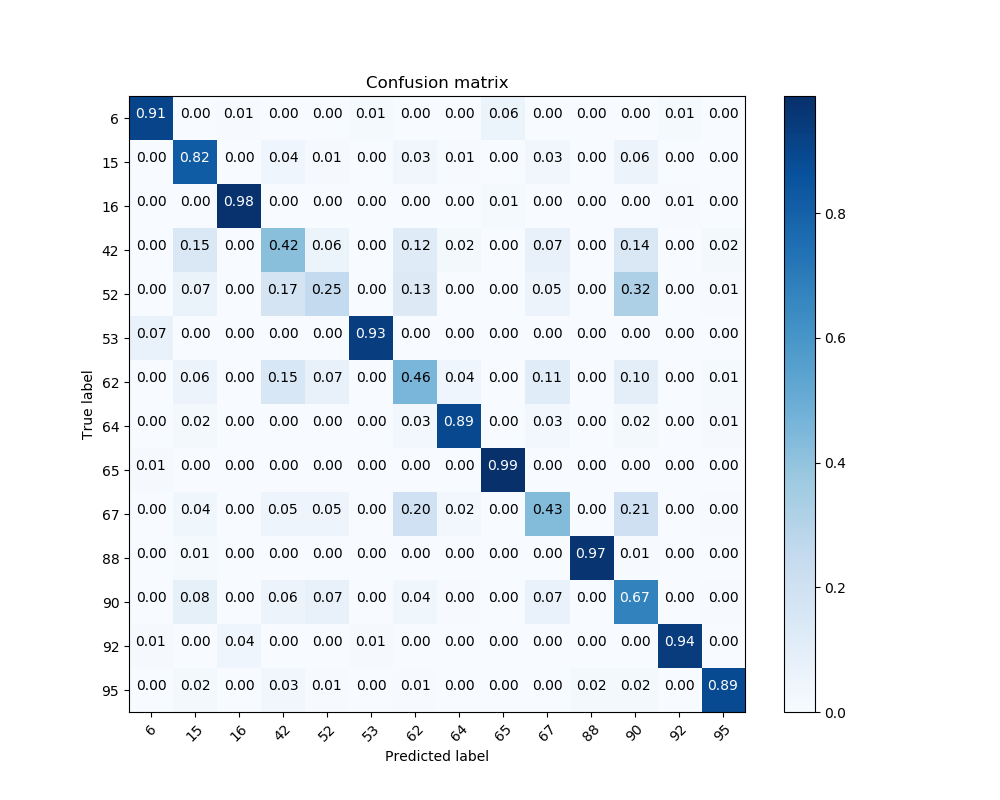
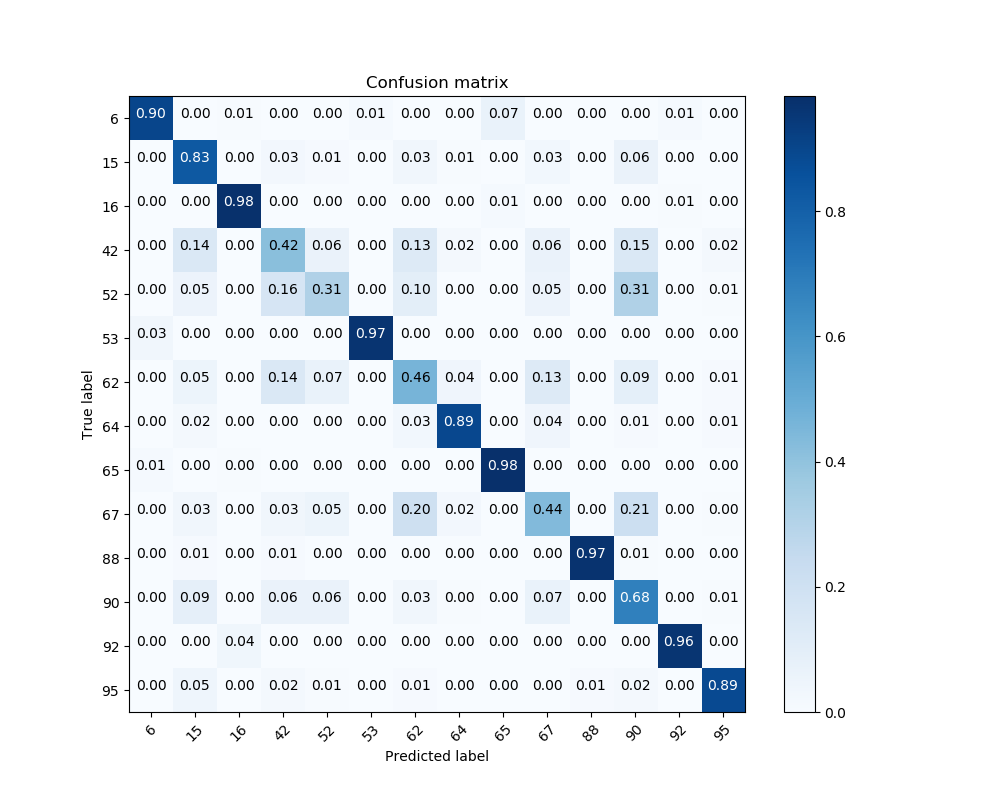
start monday

diff --git a/featgen_standard_v2.py b/featgen_standard_v2.py
@@ -26,11 +26,11 @@ def atomic_worker(args):
     feat_arrays = []
     compute_feats = {
         'm-feats'            : False,
-        'm-feats-filtered'   : True,
+        'm-feats-filtered'   : False,
         't-feats'            : False,
         'd-feats'            : False,
         'cesium-feats'       : False,
-        'slope-feats'        : False,
+        'slope-feats'        : True,
     }
 
 
@@ -68,26 +68,25 @@ def atomic_worker(args):
 
         def slope_feats(ts, ms, ds):
             '''
-            Custom compute of slope feats. Atm:
-            1) Max slope per band
+            Custom compute of slope feats
             '''
 
             if np.sum(ds) <= 1: # 0 or 1 detected points are insufficient for slope computation
-                return 0
+                return np.zeros(5)
 
             # Unused
             mask = (ds[1:] * ds[:-1]) # Mask to compute slope between detected pts only
 
             s = (ms[1:]-ms[:-1])/(ts[1:]-ts[:-1])
 
-            return np.max(s)
+            return np.array([np.max(s), np.median(s), np.mean(s), np.std(s), skew(s)])
 
 
         # Define feats to compute
         feats_to_compute = [slope_feats]
         num_bands = 6
         local_names = []
-        for fn in ['slope_max']:
+        for fn in ['slope_max', 'slope_median', 'slope_mean', 'slope_std', 'slope_skew']:
             local_names.extend([f'{fn}_{i:d}' for i in range(num_bands)])
 
         feat_names.extend(local_names)
@@ -99,9 +98,11 @@ def atomic_worker(args):
 
         # Compute slope feats
         for i, (t_curves, m_curves, d_curves) in enumerate(zip(lcs[0], lcs[1], lcs[3])):
-            for j, f in enumerate(feats_to_compute):
-                for k, (ts, ms, ds) in enumerate(zip(t_curves, m_curves, d_curves)):
-                    s_array[i, j * num_bands + k] = f(ts, ms, ds)
+            for j, (ts, ms, ds) in enumerate(zip(t_curves, m_curves, d_curves)):
+                for f in feats_to_compute:
+                    fts = f(ts, ms, ds)
+                    _nfeats = len(fts)
+                    s_array[i, j*_nfeats:j*_nfeats+_nfeats] = fts
 
         feat_arrays.append(s_array)
 
@@ -354,11 +355,11 @@ def main(save_dir, save_name, light_curves_dir, n_batches):
         pickle.dump(feat_list, f2, protocol=pickle.HIGHEST_PROTOCOL)
 
 
-set_str = 'training'
+set_str = 'test'
 st = time.time()
 main(
     save_dir='data/'+set_str+'_feats',
-    save_name=set_str+'_set_feats_r2_filtered_flux.h5',
+    save_name=set_str+'_set_feats_r2_slope_v2.h5',
     light_curves_dir='data/'+set_str+'_cesium_curves',
     n_batches=8,
 )

diff --git a/lgbm.py b/lgbm.py
@@ -173,20 +173,22 @@ meta_train, meta_test, y_tgt, train_cols = utils.prep_data()
 # Get data
 train_feats_list = [
     'data/training_feats/training_set_feats_r2_v1.h5',
-    'data/training_feats/training_set_feats_r2_max_slope.h5',
+    'data/training_feats/training_set_feats_r2_slope_v2.h5',
 ]
 test_feats_list = [
     'data/test_feats/test_set_feats_r2_v1.h5',
-    'data/test_feats/test_set_feats_r2_max_slope.h5',
+    'data/test_feats/test_set_feats_r2_slope_v2.h5',
 ]
 train = concat_feats(train_feats_list, meta_train)
 test = concat_feats(test_feats_list, meta_test)
 
 # Select feat subset
+feat_subset = []
+for feat_list in train_feats_list:
+    with open(feat_list.split('.h5')[0]+'.pkl', 'rb') as f:
+        feat_subset.extend(pickle.load(f))
 
-# Load desired subset
-with open('data/training_feats/training_set_feats_r2_v1_test.pkl', 'rb') as f:
-    feat_subset = pickle.load(f)
+
 if 'object_id' in feat_subset:
     feat_subset.remove('object_id')
 train_cols.extend(feat_subset)
